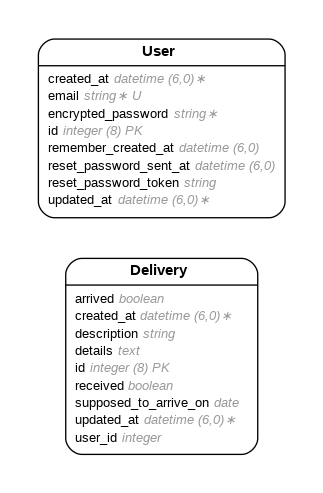
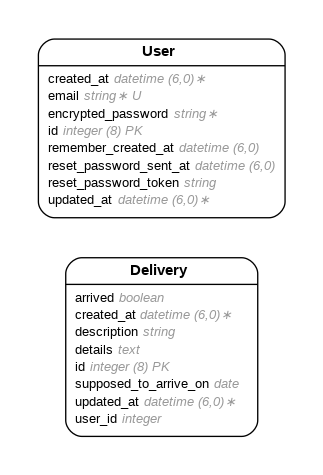
And I removed "received" because it wasn't doing anything really.

Changed region(s): [[0.0929, 0.0589, 0.8978, 0.4716], [0.1858, 0.5011, 0.805, 0.9432], [0.774, 0.8842, 0.805, 0.9137]]

diff --git a/db/schema.rb b/db/schema.rb
@@ -10,7 +10,7 @@
 #
 # It's strongly recommended that you check this file into your version control system.
 
-ActiveRecord::Schema[7.1].define(version: 2025_05_07_224639) do
+ActiveRecord::Schema[7.1].define(version: 2025_05_07_224851) do
   # These are extensions that must be enabled in order to support this database
   enable_extension "plpgsql"
 
@@ -18,7 +18,6 @@ ActiveRecord::Schema[7.1].define(version: 2025_05_07_224639) do
     t.string "description"
     t.text "details"
     t.date "supposed_to_arrive_on"
-    t.boolean "received"
     t.datetime "created_at", null: false
     t.datetime "updated_at", null: false
     t.integer "user_id"

diff --git a/app/models/delivery.rb b/app/models/delivery.rb
@@ -6,7 +6,6 @@
 #  arrived               :boolean
 #  description           :string
 #  details               :text
-#  received              :boolean
 #  supposed_to_arrive_on :date
 #  created_at            :datetime         not null
 #  updated_at            :datetime         not null

diff --git a/db/migrate/20250507224851_remove_received_from_deliveries.rb b/db/migrate/20250507224851_remove_received_from_deliveries.rb
@@ -1,0 +1,5 @@
+class RemoveReceivedFromDeliveries < ActiveRecord::Migration[7.1]
+  def change
+    remove_column :deliveries, :received, :boolean
+  end
+end
